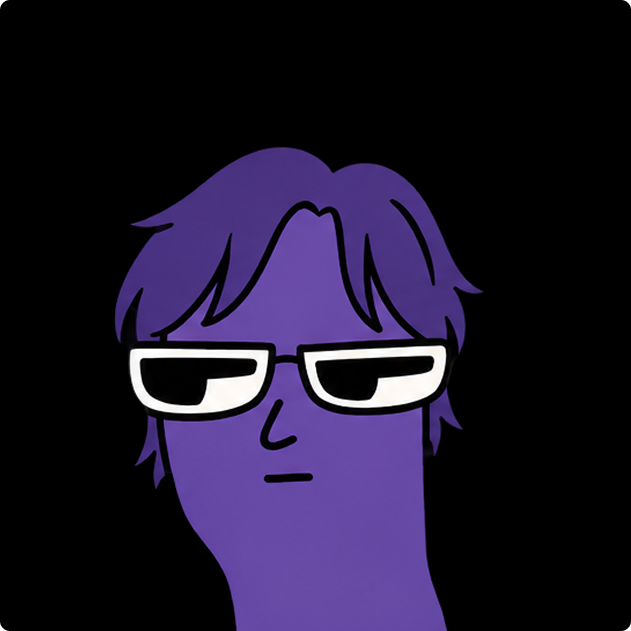
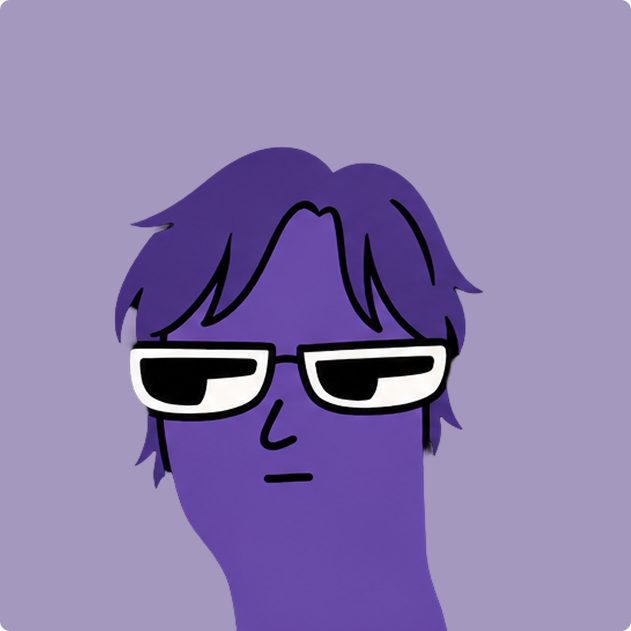
Make home a swipeable deck of saved places
A saved place is a decision the user deferred, so the screen shows one and
asks, rather than listing thirteen and asking nothing. The cards behind the
front one are the swipe affordance — nothing else on screen says there is more
underneath.

Swipe is an accelerator, never the only way through: every action also has a
button, arrow keys work, position is announced politely, and the travel is
behind motion-safe. A deck that can only be swiped is a deck many people cannot
use.

Sorting is 최신순 · 지역순 · 이름순 rather than the reference's 추천순 and
가까운순, because those need a recommendation engine and geolocation and Gaja
has neither. Offering a control that cannot work is the same lie as a section
with no data behind it. Name and area sort through localeCompare('ko') so
Hangul orders by 가나다 rather than code point.

Transforms are a deliberate, scoped exception to the motion budget, recorded as
deviation 4 in the visual language.

Also swaps in the transparent MBTI art, completes the set at sixteen by lifting
the background off INTP with an edge flood fill, and stops selection inverting
the tile to ink — with the backgrounds gone that would swallow the near-black
characters.

diff --git a/app/(app)/home/deck.tsx b/app/(app)/home/deck.tsx
@@ -1,0 +1,263 @@
+'use client';
+
+import Link from 'next/link';
+import { useCallback, useEffect, useMemo, useRef, useState } from 'react';
+import type { SavedPlace } from '@/lib/api/types';
+
+/**
+ * The saved-places deck.
+ *
+ * A stack you move through one place at a time, rather than a list you scan.
+ * The premise is that a saved place is a decision you deferred, so the screen
+ * shows you one and asks; a list of thirteen asks nothing.
+ *
+ * DELIBERATE DEVIATION FROM `.agents/visual-language.md`: the motion budget is
+ * opacity and border only, with no transforms. A deck cannot be built inside
+ * that budget — the cards have to move. The deviation is confined to this
+ * component and is recorded in the visual-language changelog; do not read it as
+ * permission to animate transforms elsewhere.
+ *
+ * Swipe is an accelerator, never the only way through. Every action has a
+ * button, arrow keys work, position is announced politely, and under
+ * `prefers-reduced-motion` the cards swap with no travel at all. A deck that can
+ * only be swiped is a deck a lot of people cannot use.
+ */
+
+export type SortKey = 'recent' | 'area' | 'name';
+
+const SORTS: { key: SortKey; label: string }[] = [
+  { key: 'recent', label: '최신순' },
+  { key: 'area', label: '지역순' },
+  { key: 'name', label: '이름순' },
+];
+
+const CATEGORY_KO: Record<string, string> = {
+  cafe: '카페',
+  restaurant: '음식점',
+  exhibition: '전시',
+  shop: '가게',
+  activity: '체험',
+};
+
+/** Far enough that a scroll or a stray tap is not mistaken for a decision. */
+const COMMIT_PX = 72;
+
+export function PlaceDeck({ places }: { places: SavedPlace[] }) {
+  const [sort, setSort] = useState<SortKey>('recent');
+  const [index, setIndex] = useState(0);
+  const [drag, setDrag] = useState(0);
+  // Whether a drag is in flight is state, not a ref: it decides whether the card
+  // gets a transition, which is a render-time question. Reading a ref during
+  // render is exactly the bug React warns about.
+  const [dragging, setDragging] = useState(false);
+  const dragStart = useRef<number | null>(null);
+
+  const sorted = useMemo(() => {
+    const copy = [...places];
+    if (sort === 'name') {
+      // localeCompare with 'ko' so Hangul sorts by 가나다 rather than code point.
+      return copy.sort((a, b) =>
+        (a.place?.name ?? '').localeCompare(b.place?.name ?? '', 'ko'),
+      );
+    }
+    if (sort === 'area') {
+      return copy.sort(
+        (a, b) =>
+          (a.place?.area ?? '').localeCompare(b.place?.area ?? '', 'ko') ||
+          (a.place?.name ?? '').localeCompare(b.place?.name ?? '', 'ko'),
+      );
+    }
+    return copy; // the server already returns newest first
+  }, [places, sort]);
+
+  const total = sorted.length;
+
+  const go = useCallback(
+    (delta: number) => {
+      setDrag(0);
+      // Clamped, not wrapped. Looping a finite deck hides that you reached the
+      // end, which is the one thing the deck has to be able to say.
+      setIndex((i) => Math.min(Math.max(i + delta, 0), Math.max(total - 1, 0)));
+    },
+    [total],
+  );
+
+  useEffect(() => {
+    function onKey(e: KeyboardEvent) {
+      if (e.key === 'ArrowRight') go(1);
+      else if (e.key === 'ArrowLeft') go(-1);
+    }
+    window.addEventListener('keydown', onKey);
+    return () => window.removeEventListener('keydown', onKey);
+  }, [go]);
+
+  if (total === 0) return null;
+
+  const current = sorted[index];
+  const behind = sorted.slice(index + 1, index + 3);
+
+  function onPointerDown(e: React.PointerEvent) {
+    dragStart.current = e.clientX;
+    setDragging(true);
+    (e.currentTarget as HTMLElement).setPointerCapture(e.pointerId);
+  }
+  function onPointerMove(e: React.PointerEvent) {
+    if (dragStart.current === null) return;
+    setDrag(e.clientX - dragStart.current);
+  }
+  function onPointerUp() {
+    if (dragStart.current === null) return;
+    if (drag <= -COMMIT_PX && index < total - 1) go(1);
+    else if (drag >= COMMIT_PX && index > 0) go(-1);
+    else setDrag(0);
+    dragStart.current = null;
+    setDragging(false);
+  }
+
+  return (
+    <section className="mt-[var(--space-15)]">
+      {/* Sort is a row of chips, not a select: three options fit, and a chip row
+          shows what the alternatives are without a tap to find out. */}
+      <div role="tablist" aria-label="정렬" className="flex gap-[var(--space-7)]">
+        {SORTS.map((s) => {
+          const on = sort === s.key;
+          return (
+            <button
+              key={s.key}
+              role="tab"
+              aria-selected={on}
+              onClick={() => {
+                // Reset here rather than in an effect on [sort]: a synchronous
+                // setState inside an effect body cascades renders, and this repo
+                // has an eslint rule and two prior commits about it.
+                setSort(s.key);
+                setIndex(0);
+              }}
+              className={`flex h-[var(--tap-min)] items-center rounded-[var(--radius-pill)] px-[var(--space-11)] transition-opacity duration-200 active:opacity-[var(--press-opacity)] ${
+                on ? 'bg-ink text-on-ink' : 'bg-surface-1 text-secondary'
+              }`}
+              style={{ font: 'var(--type-meta)' }}
+            >
+              {s.label}
+            </button>
+          );
+        })}
+      </div>
+
+      <div className="relative mt-[var(--space-17)]">
+        {/* The cards behind are the swipe affordance. Nothing else on screen
+            says "there is more underneath this", so they are not decoration. */}
+        {behind.map((p, i) => (
+          <div
+            key={p.id}
+            aria-hidden
+            // inset-0, not a fixed height: the container is sized by the real
+            // card, so the ghosts match it instead of poking out below.
+            // surface-2 rather than surface-1 — #FAFAFA at reduced opacity is
+            // invisible against a white canvas.
+            className="absolute inset-0 rounded-[var(--radius-4xl)] bg-surface-2 motion-safe:transition-transform motion-safe:duration-300"
+            style={{
+              transform: `translateY(${-(i + 1) * 9}px) scale(${1 - (i + 1) * 0.05})`,
+              opacity: 1 - i * 0.4,
+            }}
+          />
+        ))}
+
+        <article
+          onPointerDown={onPointerDown}
+          onPointerMove={onPointerMove}
+          onPointerUp={onPointerUp}
+          onPointerCancel={onPointerUp}
+          className="relative touch-pan-y select-none rounded-[var(--radius-4xl)] bg-surface-1 p-[var(--space-13)]"
+          style={{
+            transform: `translateX(${drag}px) rotate(${drag / 60}deg)`,
+            transition: dragging ? 'none' : 'transform var(--dur-fade) var(--ease-nav)',
+          }}
+        >
+          {current.place?.category ? (
+            <span
+              className="inline-flex items-center rounded-[var(--radius-sm)] bg-[var(--tag-mint-bg)] px-[var(--space-7)] py-[var(--space-3)] text-ink"
+              style={{ font: 'var(--type-tag)', letterSpacing: 'var(--tag-ls)' }}
+            >
+              {CATEGORY_KO[current.place.category] ?? current.place.category}
+            </span>
+          ) : null}
+
+          <h3
+            className="mt-[var(--space-9)]"
+            style={{ font: 'var(--type-post-title)', letterSpacing: 'var(--post-title-ls)' }}
+          >
+            {current.place?.name ?? '장소를 확인하는 중이에요'}
+          </h3>
+
+          {current.place?.address || current.place?.area ? (
+            <p className="mt-[var(--space-3)] text-secondary" style={{ font: 'var(--type-meta)' }}>
+              {current.place.address ?? current.place.area}
+            </p>
+          ) : null}
+
+          {/* The reel still belongs here and arrives in slice 3. Until then there
+              is no image block at all — an empty grey rectangle would be a
+              promise the card cannot keep. */}
+          {current.hook ? (
+            <p className="mt-[var(--space-11)] text-secondary" style={{ font: 'var(--type-body)' }}>
+              {current.hook}
+            </p>
+          ) : null}
+        </article>
+      </div>
+
+      <div className="mt-[var(--space-15)] flex items-center justify-between">
+        <p aria-live="polite" className="text-secondary tabular-nums" style={{ font: 'var(--type-caption)' }}>
+          {index + 1} / {total}
+        </p>
+
+        <div className="flex gap-[var(--space-7)]">
+          <DeckButton label="이전 장소" disabled={index === 0} onClick={() => go(-1)}>
+            ‹
+          </DeckButton>
+          <DeckButton label="다음 장소" disabled={index >= total - 1} onClick={() => go(1)}>
+            ›
+          </DeckButton>
+        </div>
+      </div>
+
+      <Link
+        href="/saved-places"
+        className="mt-[var(--space-11)] flex h-[var(--tap-min)] items-center justify-center text-secondary"
+        style={{ font: 'var(--type-meta)' }}
+      >
+        전체 보기 ›
+      </Link>
+    </section>
+  );
+}
+
+/**
+ * The chevron is a text node, so it inherits size and colour for free — but it
+ * is meaningless to a screen reader, hence the aria-label carrying the real one.
+ */
+function DeckButton({
+  label,
+  disabled,
+  onClick,
+  children,
+}: {
+  label: string;
+  disabled: boolean;
+  onClick: () => void;
+  children: React.ReactNode;
+}) {
+  return (
+    <button
+      type="button"
+      aria-label={label}
+      disabled={disabled}
+      onClick={onClick}
+      className="flex h-[var(--tap-min)] w-[var(--tap-min)] items-center justify-center rounded-[var(--radius-pill)] bg-surface-1 text-ink transition-opacity duration-200 active:opacity-[var(--press-opacity)] disabled:opacity-30"
+      style={{ font: 'var(--type-section)' }}
+    >
+      <span aria-hidden>{children}</span>
+    </button>
+  );
+}

diff --git a/app/(app)/home/page.tsx b/app/(app)/home/page.tsx
@@ -2,9 +2,9 @@ import type { Metadata } from 'next';
 import Link from 'next/link';
 import type { ReactNode } from 'react';
 import { Card, Content } from '@/components/surface';
+import { PlaceDeck } from './deck';
 import { requireSession } from '@/lib/require-session';
 import { listPlacesNearby, listSavedPlacesForUser } from '@/lib/saved-places';
-import type { SavedPlace } from '@/lib/api/types';
 
 export const metadata: Metadata = { title: '홈' };
 
@@ -25,7 +25,8 @@ export default async function HomePage() {
   const user = await requireSession();
 
   const [saved, nearby] = await Promise.all([
-    listSavedPlacesForUser(user.id, 10),
+    // The deck is the whole set, not a preview — it is the screen's main act.
+    listSavedPlacesForUser(user.id, 30),
     // No home area means no "near you" section to fill — do not ask the
     // database a question whose answer cannot be shown.
     user.home_area ? listPlacesNearby(user.home_area, user.id) : Promise.resolve([]),
@@ -36,12 +37,23 @@ export default async function HomePage() {
   return (
     <Content>
       <header>
-        <h1 style={{ font: 'var(--type-tab-header)', letterSpacing: 'var(--tab-header-ls)' }}>
-          {user.display_name}님
+        <span
+          className="inline-flex items-center rounded-[var(--radius-sm)] bg-surface-1 px-[var(--space-7)] py-[var(--space-3)] text-secondary"
+          style={{ font: 'var(--type-tag)', letterSpacing: 'var(--tag-ls)' }}
+        >
+          내 장소
+        </span>
+
+        {/* A question, not a greeting. A saved place is a decision the user
+            deferred, and the screen's job is to put one back in front of them. */}
+        <h1
+          className="mt-[var(--space-11)]"
+          style={{ font: 'var(--type-screen-title)', letterSpacing: 'var(--screen-title-ls)' }}
+        >
+          {user.display_name}님, 저장만 해두고
+          <br />
+          다시 꺼내볼까요?
         </h1>
-        <p className="mt-1 text-secondary" style={{ font: 'var(--type-meta)' }}>
-          오늘 어디 갈까요?
-        </p>
       </header>
 
       {/* Nothing to show is one line, not a designed screen. An illustration or
@@ -53,13 +65,7 @@ export default async function HomePage() {
         </p>
       ) : null}
 
-      <Section title="저장한 곳" href="/saved-places" empty={saved.length === 0}>
-        <ul className="flex list-none gap-[var(--rail-gap)] overflow-x-auto p-0">
-          {saved.map((s) => (
-            <SavedRailItem key={s.id} saved={s} />
-          ))}
-        </ul>
-      </Section>
+      <PlaceDeck places={saved} />
 
       {/* Always empty, so this never renders — and that is the point. Matching a
           place to an MBTI type needs a recommendation source, and there is none:
@@ -119,31 +125,6 @@ function Section({
       </div>
       <div className="mt-[var(--space-9)]">{children}</div>
     </section>
-  );
-}
-
-/**
- * There is no photography in the product yet, so the thumbnail is an empty
- * tinted square and stays one. A placeholder image or a glyph would be
- * inventing content the row does not have.
- */
-function SavedRailItem({ saved }: { saved: SavedPlace }) {
-  const { place } = saved;
-
-  return (
-    <li className="w-[132px] shrink-0">
-      <div aria-hidden className="aspect-square w-full rounded-[var(--radius-photo)] bg-surface-2" />
-      {/* `place` is null while status is 'pending' — slice 3's extractor can
-          produce a saved row before it has resolved to a real venue. */}
-      <p className="mt-[var(--space-7)] truncate" style={{ font: 'var(--type-card-title)' }}>
-        {place?.name ?? '장소를 확인하는 중이에요'}
-      </p>
-      {place?.area ? (
-        <p className="mt-0.5 truncate text-secondary" style={{ font: 'var(--type-caption)' }}>
-          {place.area}
-        </p>
-      ) : null}
-    </li>
   );
 }
 

diff --git a/app/(onboarding)/onboarding/steps.tsx b/app/(onboarding)/onboarding/steps.tsx
@@ -147,8 +147,11 @@ export function OnboardingSteps({ initialName }: { initialName: string }) {
                     type="button"
                     onClick={() => patch({ mbti: t })}
                     aria-pressed={selected}
-                    className={`flex flex-col items-center gap-[var(--space-4)] rounded-[var(--radius-md)] p-[var(--space-4)] transition-opacity duration-200 active:opacity-[var(--press-opacity)] ${
-                      selected ? 'bg-ink' : 'bg-surface-2'
+                    // Selection is an outline, not an inverted fill. The art is
+                    // transparent, so filling the tile with ink would swallow the
+                    // dark characters — ISTJ and INTJ are near-black themselves.
+                    className={`flex flex-col items-center gap-[var(--space-4)] rounded-[var(--radius-xl)] bg-surface-1 p-[var(--space-5)] transition-opacity duration-200 active:opacity-[var(--press-opacity)] ${
+                      selected ? 'outline-2 -outline-offset-2 outline-ink' : ''
                     }`}
                   >
                     <Image
@@ -156,10 +159,10 @@ export function OnboardingSteps({ initialName }: { initialName: string }) {
                       alt=""
                       width={64}
                       height={64}
-                      className="h-auto w-full rounded-[var(--radius-xs)]"
+                      className="h-auto w-full rounded-[var(--radius-md)]"
                     />
                     <span
-                      className={selected ? 'text-on-ink' : 'text-secondary'}
+                      className={selected ? 'text-ink' : 'text-secondary'}
                       style={{ font: 'var(--type-tag)', letterSpacing: 'var(--tag-ls)' }}
                     >
                       {t}

diff --git a/app/globals.css b/app/globals.css
@@ -95,6 +95,7 @@
      them. Gaja needs both, so they are composed here to the same pattern.
      letter-spacing cannot live in the `font` shorthand — pair these with
      `letter-spacing: var(--tag-ls)` / `var(--tab-ls)` at the call site. */
+  --type-post-title:600 var(--post-title-size)/var(--post-title-lh) var(--font-display-semibold),var(--font-fallback-kr);
   --type-tag:600 var(--tag-size)/var(--tag-lh) var(--font-body-semibold),var(--font-fallback-kr);
   --type-tab:500 var(--tab-size)/var(--tab-lh) var(--font-body-medium),var(--font-fallback-kr);
 
